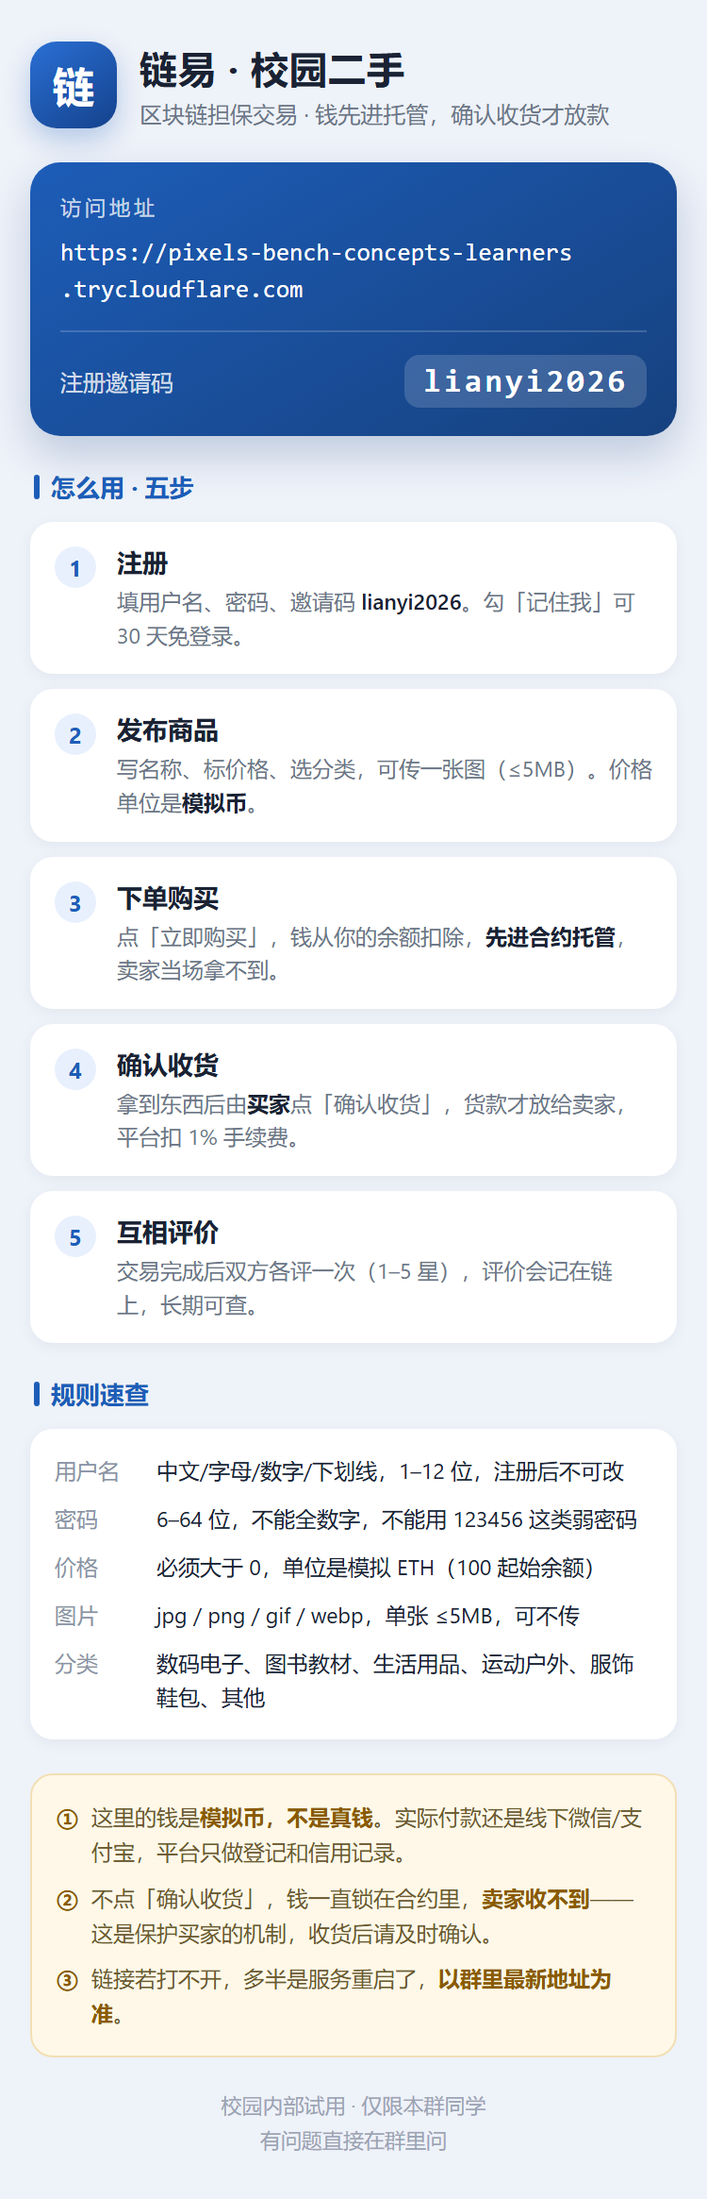
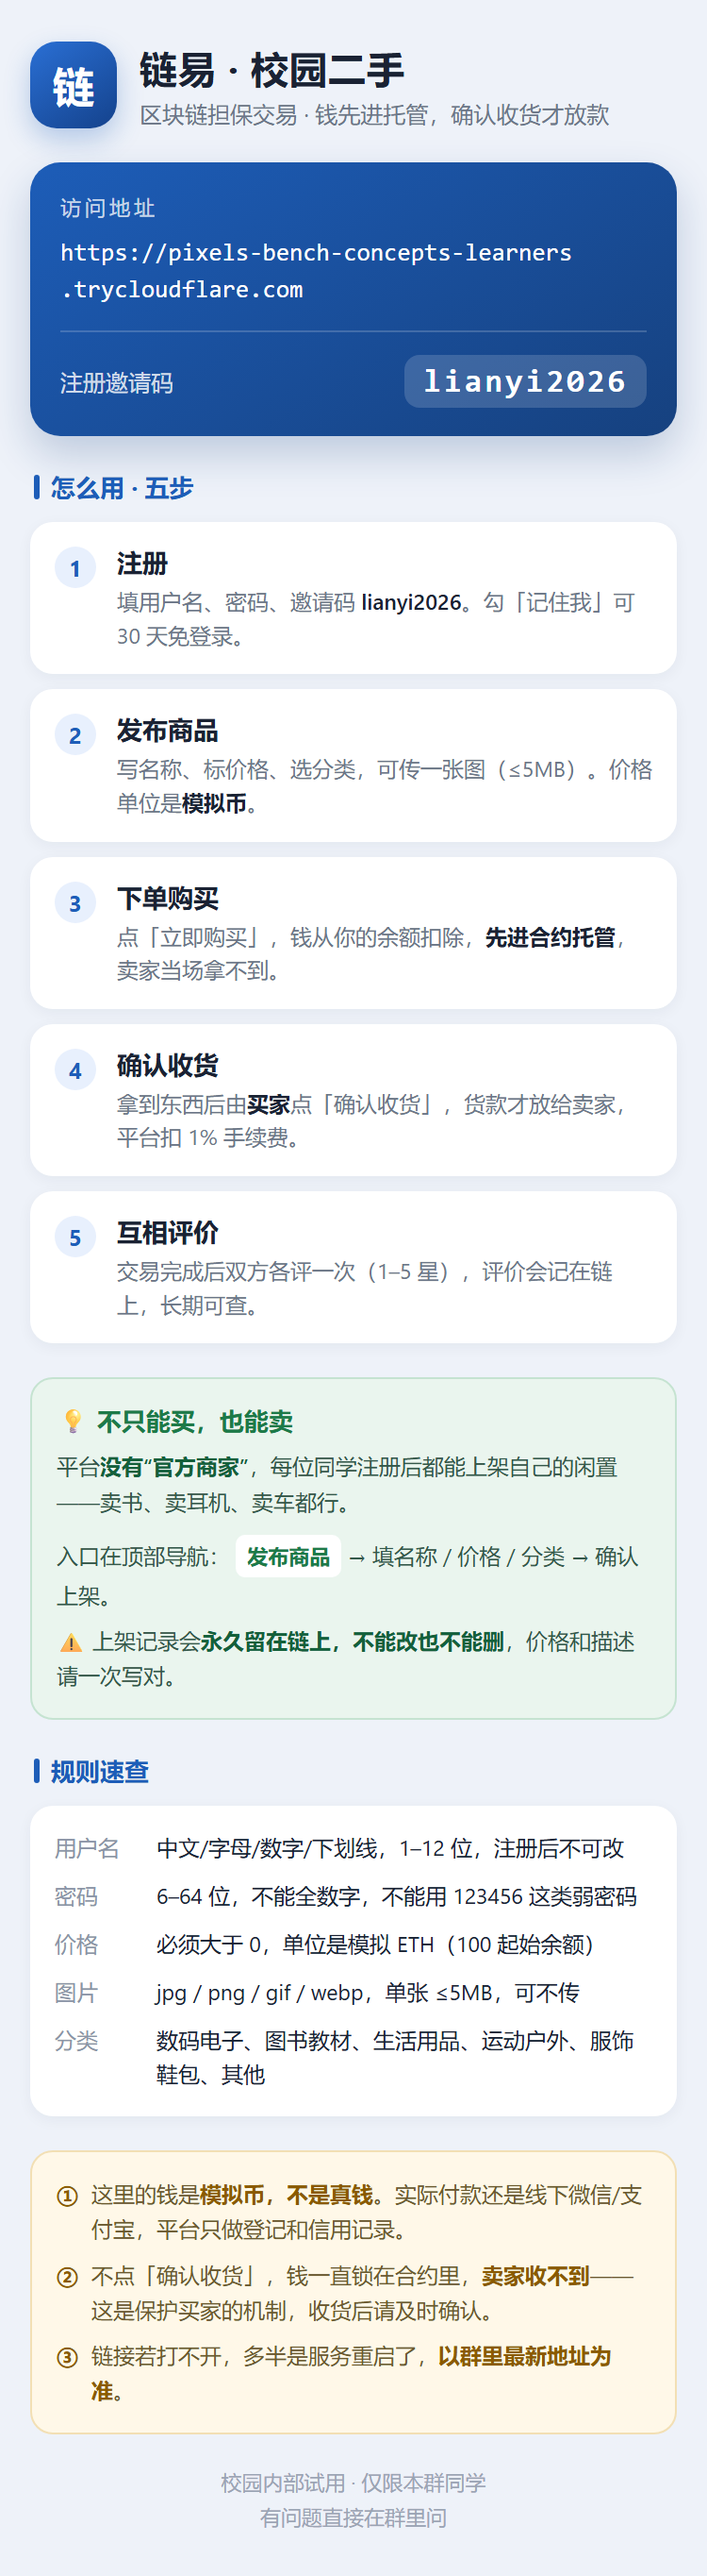
docs: 同学使用说明补充「不只能买，也能卖」
同学反馈说明里看不出自己也能上架。实测确认功能本身没问题
（新用户注册 → 上传图片 → 上架 → 出现在列表，端到端通过），
因此在说明里补一块绿色提示：
- 平台没有「官方商家」，每位同学注册后都能上架自己的闲置
- 入口：顶部导航「发布商品」→ 填名称/价格/分类 → 确认上架
- 提醒：上架记录永久上链，不能改也不能删，请一次写对

同时重新导出 PNG（750×2709，含新板块）。

diff --git a/docs/同学使用说明.html b/docs/同学使用说明.html
@@ -101,6 +101,23 @@
   .notice-item b { color: #8a5a00; }
 
   .footer { text-align: center; font-size: 11px; color: #9aa4b4; line-height: 1.7; }
+
+  /* ---------- 人人可卖 ---------- */
+  .sell {
+    background: #eaf5ee; border: 1px solid #c5e3d1; border-radius: 12px;
+    padding: 13px; margin-bottom: 18px;
+  }
+  .sell-h {
+    font-size: 13px; font-weight: 700; color: #1d7a48;
+    display: flex; align-items: center; gap: 6px; margin-bottom: 6px;
+  }
+  .sell p { font-size: 11.5px; line-height: 1.65; color: #33584a; }
+  .sell b { color: #14603a; font-weight: 600; }
+  .sell .path {
+    display: inline-block; margin-top: 3px; padding: 2px 6px;
+    background: #fff; border-radius: 5px; color: #1d7a48;
+    font-size: 11px; font-weight: 600;
+  }
 </style>
 </head>
 <body>
@@ -160,6 +177,16 @@
         <p>交易完成后双方各评一次（1–5 星），评价会记在链上，长期可查。</p>
       </div>
     </div>
+  </div>
+
+  <div class="sell">
+    <div class="sell-h">💡 不只能买，也能卖</div>
+    <p>平台<b>没有“官方商家”</b>，每位同学注册后都能上架自己的闲置——卖书、卖耳机、卖车都行。</p>
+    <p style="margin-top:5px">入口在顶部导航：
+      <span class="path">发布商品</span>
+      → 填名称 / 价格 / 分类 → 确认上架。
+    </p>
+    <p style="margin-top:5px">⚠ 上架记录会<b>永久留在链上，不能改也不能删</b>，价格和描述请一次写对。</p>
   </div>
 
   <div class="sec-title">规则速查</div>
